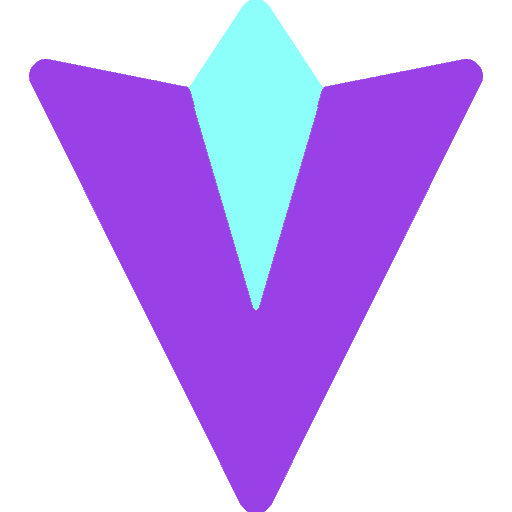
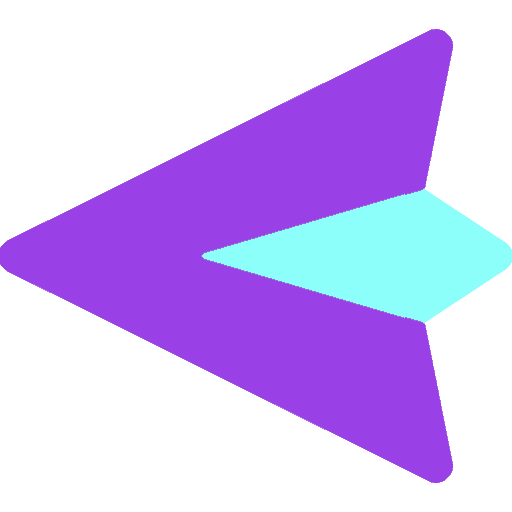
rotation

diff --git a/game/game.py b/game/game.py
@@ -39,53 +39,45 @@ lines = True
 short = True
 drawobj = True
 portal = False
-xval = False
 
 class gameobject():
-	def __init__(self, image, x, y, reverse):
-		self.image = image
+	def __init__(self, image, x, y, angle):
 		self.ox = x
 		self.oy = y
 		self.x = x
 		self.y = y
+		self.image = image
+		self.rotated_image = self.image
 		self.ded = False
-		self.orientation = reverse
-		self.reverse = reverse
+		self.angle = angle
 
-	def rotate180(self):
-		self.image = pygame.transform.flip(self.image, False, True)
-		if self.reverse:
-			self.reverse = False
-		else:
-			self.reverse = True
+	def rotateright(self ):
+		self.angle -= 2
+		self.angle %= 360
 
-	def setpos(self, choose, diff):
-		if choose == 0:
-			if diff < 0:
-				if int(self.x) <= bx1:
-					return
-			else:
-				if int(self.x) >= bx2:
-					return
-			self.x += diff
+	def rotateleft(self ):
+		self.angle += 2
+		self.angle %= 360
 
-		else:
-			if diff < 0:
-				if int(self.y) <= by1:
-					return
-			else:
-				if int(self.y) >= by2:
-					return
-			if int(self.y) == 300:
-				self.rotate180()
-			self.y += diff
+	def setpos(self, diff):
+		self.x += diff*(math.cos(math.radians(self.angle)))
+		self.y -= diff*(math.sin(math.radians(self.angle)))
 
 	def updategame(self ):
+		if self.y <= dy[0] or self.y >= dy[1]:
+			if self.y <= dy[0]:
+				self.y = dy[1]
+			else:
+				self.y = dy[0]
+		elif self.x <= dx[0] or self.x >= dx[1]:
+			if self.x <= dx[0]:
+				self.x = dx[1]
+			else:
+				self.x = dx[0]
 		if self.ded == False and drawobj:
-			screen.blit(self.image, (self.x, self.y))
+			self.rotated_image = pygame.transform.rotate(self.image, self.angle)
+			screen.blit(self.rotated_image, (self.x - int(self.rotated_image.get_width()/2), self.y - int(self.rotated_image.get_height()/2)))
 		elif drawobj and self.ded:
-			if self.reverse != self.orientation:
-				self.rotate180()
 			self.ded = False
 			self.x, self.y = self.ox, self.oy
 
@@ -99,6 +91,7 @@ class bulletobject():
 		self.origin = origin
 		self.bulletspeed = bulletspeed
 		self.xbulletspeed = bulletspeed
+		self.angle = self.origin.angle
 		self.ready = False
 
 
@@ -287,8 +280,6 @@ class bulletobject():
 					self.x += dist + 3
 				else:
 					self.x -= dist + 3
-
-		
 		if phase == False: 
 			# deletes bullet and ship
 			if edistance <= 10:
@@ -298,8 +289,8 @@ class bulletobject():
 				ready.remove(self)
 
 	def setstart(self, x, y):
-		self.x = x
-		self.y = y
+		self.x = x - int(self.origin.rotated_image.get_width()/2)
+		self.y = y - int(self.origin.rotated_image.get_height()/2)
 		self.ready = True
 
 	def fire(self):
@@ -326,21 +317,17 @@ class bulletobject():
 
 		if straight:
 			# staight line
-			self.y += self.bulletspeed*delta
-			if xreflect or xval:
-				# just to see how it would move
-				# self.x += changesign((self.xbulletspeed + math.sqrt((math.pow(self.bulletspeed, 2)))), checksign(self.xbulletspeed))
-				self.x += self.xbulletspeed*delta
+			self.y += self.bulletspeed*delta*(math.sin(math.radians(self.angle)))
+			self.x -= self.xbulletspeed*delta*(math.cos(math.radians(self.angle)))
 		if randomy:
 			# random direction
-			self.x = random.randint(- 3, 3) + self.x
-			self.y = random.randint(- 3, 3) + self.y
+			self.x += random.randint(- 3, 3)
+			self.y -= random.randint(- 3, 3)
 
 		self.collisioncheck()
 
 		if drawobj:
 			screen.blit( self.image, (self.x, self.y))
-
 
 
 
@@ -354,9 +341,9 @@ yellow = pygame.transform.scale(pygame.image.load('paper-plane.png'), (25, 25))
 purple = pygame.transform.scale(pygame.image.load('paper-plane - Copy.png'), (25, 25))
 
 # plane
-player = gameobject(yellow, 375, 485, True)
+player = gameobject(yellow, 375, 485, angle = 270)
 # enemy plane
-enemy = gameobject(purple, 375, 115, False)
+enemy = gameobject(purple, 375, 115, angle = 90)
 
 
 
@@ -460,7 +447,7 @@ while run:
 	# updating delta value and setting frame rate
 	delta = clock.tick(60)/1000
 	# updating game configs 
-	text = f'[1]/[x]x, straight: {xval}, {straight}\n[2]random: {randomy}\n[3]enemyavoid: {eavoid}\n[4]playersavoid: {oavoid}\n[5]bulletavoid: {b_avoid}\n[6]bulletfollow: {b_follow}\n[7]enemyfollow: {efollow}\n[8]playerfollow: {pfollow}\n[9]wallborder {wallhax}\n[0]yreflect: {yreflect}\n[F1]xreflect: {xreflect}\n[F2]deflectbullets: {deflect}\n[F3]phasebullets: {phase}\n[F4]/[i]short, lines: {short} {lines}\n[F5]drawobjs: {drawobj}\n[F6]portal: {portal}\n[F7]updatesc: {pyupdate}\n[F8]scoreboard: {scoreswitch}\n[F9]configs: {configuration}\n[F10]soundeffect: {sound}\n[\]exit\n[-]/[+]bulletspd: {round(bs, 1)}\nfps: {round(clock.get_fps(), 2)}, delta: {delta}\nx, y : {int(player.x)}, {int(player.y)}\nlivebullets: {len(ready)}\n'
+	text = f'[1]straight: {straight}\n[2]random: {randomy}\n[3]enemyavoid: {eavoid}\n[4]playersavoid: {oavoid}\n[5]bulletavoid: {b_avoid}\n[6]bulletfollow: {b_follow}\n[7]enemyfollow: {efollow}\n[8]playerfollow: {pfollow}\n[9]wallborder {wallhax}\n[0]yreflect: {yreflect}\n[F1]xreflect: {xreflect}\n[F2]deflectbullets: {deflect}\n[F3]phasebullets: {phase}\n[F4]/[i]short, lines: {short} {lines}\n[F5]drawobjs: {drawobj}\n[F6]portal: {portal}\n[F7]updatesc: {pyupdate}\n[F8]scoreboard: {scoreswitch}\n[F9]configs: {configuration}\n[F10]soundeffect: {sound}\n[\]exit\n[-]/[+]bulletspd: {round(bs, 1)}\nfps: {round(clock.get_fps(), 2)}, delta: {delta}\nx, y : {int(player.x)}, {int(player.y)}\nlivebullets: {len(ready)}\nangle: {player.angle}'
 	# updating color
 	if count % 2 == 0:
 		color = next(colors)
@@ -470,11 +457,7 @@ while run:
 
 	# allows keypresses 1 - K12 to change game settings
 	if configcheck:
-		if keys[pygame.K_x]:
-			xval = not xval
-			configcheck = False
-
-		elif keys[pygame.K_i]:
+		if keys[pygame.K_i]:
 			short = not short
 			configcheck = False
 
@@ -573,36 +556,35 @@ while run:
 
 	# enemy ship - WASD, player ship - arrow keys
 	if  keys[pygame.K_w]:
-		enemy.setpos(1, -150*delta)
+		enemy.setpos(-150*delta)
 
 	if keys[pygame.K_a]:
-		enemy.setpos(0, -150*delta)
-
+		enemy.rotateleft()
+	
 	if keys[pygame.K_s]:
-		enemy.setpos(1, 150*delta)
+		enemy.setpos(150*delta)
 
 	if keys[pygame.K_d]:
-		enemy.setpos(0, 150*delta)
+		enemy.rotateright()
 
 	if  keys[pygame.K_UP]:
-		player.setpos(1, -150*delta)
+		player.setpos(-150*delta)
 
 	if keys[pygame.K_LEFT]:
-		player.setpos(0, -150*delta)
+		player.rotateleft()
 
 	if keys[pygame.K_DOWN]:
-		player.setpos(1, 150*delta)
+		player.setpos(150*delta)
 
 	if keys[pygame.K_RIGHT]:
-		player.setpos(0, 150*delta)
+		player.rotateright()
 
 	# controlling bullets: enemy ship - LEFT SHIFT, player ship - RIGHT SHIFT
 	if keys[pygame.K_RSHIFT] and ppress == True:
 		if sound:
 			pygame.mixer.music.load('muda.mp3')
 			pygame.mixer.music.play()
-		bulletp = bulletobject(im1,enemy = enemy, origin = player, bulletspeed = -bs)
-		bulletp.bulletspeed = changesign(player.reverse, bulletp.bulletspeed)
+		bulletp = bulletobject(im1,enemy = enemy, origin = player, bulletspeed = bs)
 		bulletp.setstart(player.x, player.y)
 		ready.append(bulletp)
 		ppress = False
@@ -611,7 +593,6 @@ while run:
 			pygame.mixer.music.load('ora.mp3')
 			pygame.mixer.music.play()		
 		bullete = bulletobject(im2,enemy = player, origin = enemy, bulletspeed = bs)
-		bullete.bulletspeed = changesign(enemy.reverse, bullete.bulletspeed)
 		bullete.setstart(enemy.x, enemy.y)
 		ready.append(bullete)
 		epress = False
